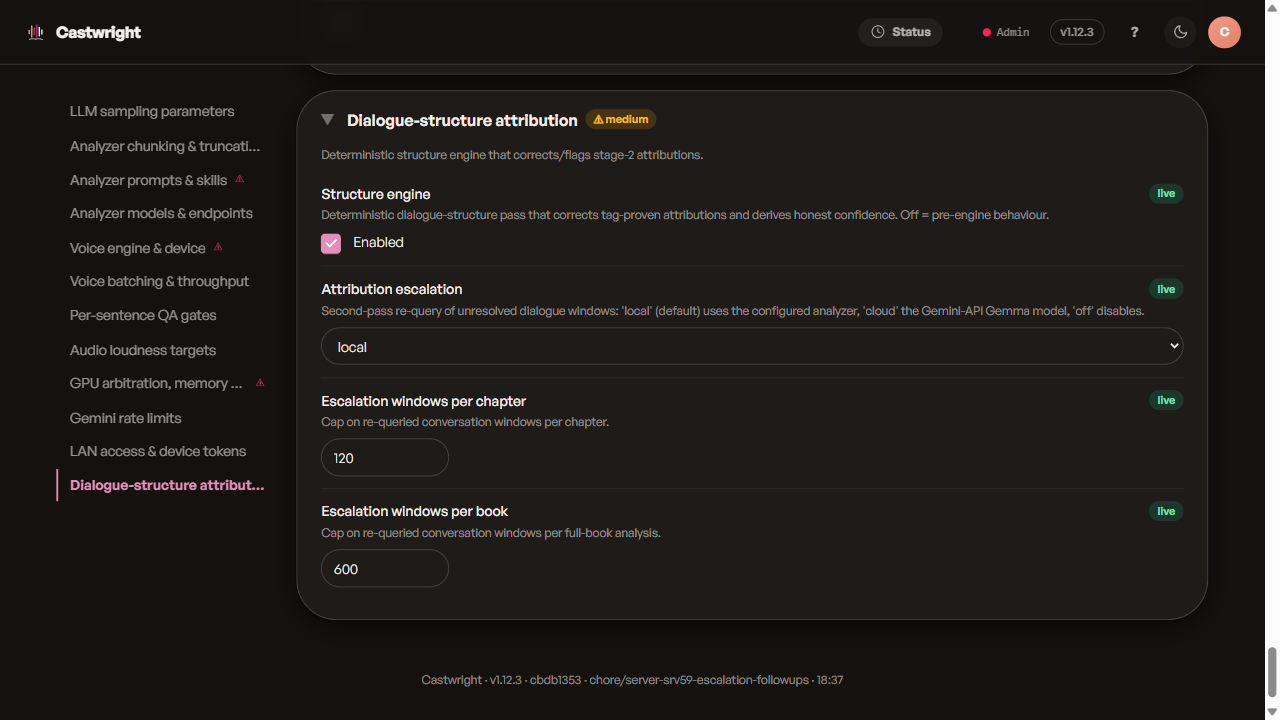
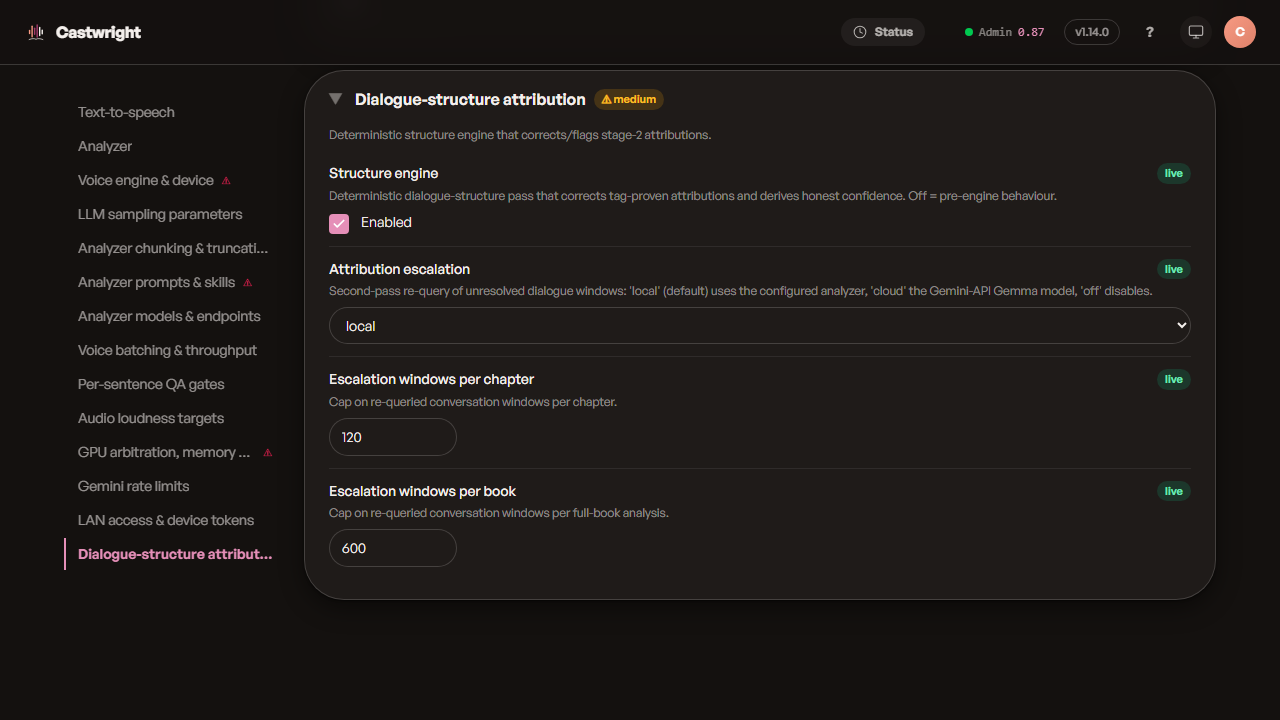
chore(frontend,e2e,docs): add dialogue-structure attribution mock group + wiki shot
Residual from #1785: Advanced Settings §12 "Dialogue-structure attribution"
could not be re-captured for the wiki because its config group was absent from
the mock config the capture harness runs against.

- Mirror the registry's `analyzer-structure` group (4 knobs) into
  MOCK_CONFIG_DESCRIPTORS + MOCK_CONFIG_GROUPS in src/lib/api.ts, so #/advanced
  renders the group in mock mode.
- Parity-test the mock group against the server registry (api.config.test.ts),
  same drift guard already covering gpu-lifecycle after the #1743 drift.
- Add the `adv-dialogue-attribution` capture scene; it settles the nav
  smooth-scroll before capture so both themes frame the last section.
- Regenerate the two stale committed PNGs from the fixed scene.

No runtime behaviour change — mock/capture plumbing for an existing real feature.

Closes #1786

Claude-Session: https://claude.ai/code/session_015axYtv5mgfcBF6PhjtH5ia

diff --git a/src/lib/api.ts b/src/lib/api.ts
@@ -8961,6 +8961,55 @@ const MOCK_CONFIG_DESCRIPTORS: import('./types').KnobDescriptor[] = [
     isPrompt: false,
     default: 30,
   },
+  // analyzer-structure — mirror server/src/config/registry.ts (parity-tested
+  // in api.config.test.ts so this can't drift from the real §12 group).
+  {
+    key: 'analyzer.structure.enabled',
+    group: 'analyzer-structure',
+    label: 'Structure engine',
+    help: 'Deterministic dialogue-structure pass that corrects tag-proven attributions and derives honest confidence. Off = pre-engine behaviour.',
+    type: 'boolean',
+    apply: 'live',
+    risk: 'medium',
+    isPrompt: false,
+    default: true,
+  },
+  {
+    key: 'analyzer.structure.escalation',
+    group: 'analyzer-structure',
+    label: 'Attribution escalation',
+    help: "Second-pass re-query of unresolved dialogue windows: 'local' (default) uses the configured analyzer, 'cloud' the Gemini-API Gemma model, 'off' disables.",
+    type: 'enum',
+    options: ['off', 'local', 'cloud'],
+    apply: 'live',
+    risk: 'medium',
+    isPrompt: false,
+    default: 'local',
+  },
+  {
+    key: 'analyzer.structure.maxWindowsPerChapter',
+    group: 'analyzer-structure',
+    label: 'Escalation windows per chapter',
+    help: 'Cap on re-queried conversation windows per chapter.',
+    type: 'integer',
+    min: 0,
+    apply: 'live',
+    risk: 'low',
+    isPrompt: false,
+    default: 120,
+  },
+  {
+    key: 'analyzer.structure.maxWindowsPerBook',
+    group: 'analyzer-structure',
+    label: 'Escalation windows per book',
+    help: 'Cap on re-queried conversation windows per full-book analysis.',
+    type: 'integer',
+    min: 0,
+    apply: 'live',
+    risk: 'low',
+    isPrompt: false,
+    default: 600,
+  },
 ];
 
 const MOCK_CONFIG_GROUPS: import('./types').ConfigGroup[] = [
@@ -9053,6 +9102,13 @@ const MOCK_CONFIG_GROUPS: import('./types').ConfigGroup[] = [
     label: 'LAN access & device tokens',
     help: 'Lifetime of browser/device authorizations minted from Admin.',
     risk: 'low',
+    collapsedByDefault: false,
+  },
+  {
+    id: 'analyzer-structure',
+    label: 'Dialogue-structure attribution',
+    help: 'Deterministic structure engine that corrects/flags stage-2 attributions.',
+    risk: 'medium',
     collapsedByDefault: false,
   },
 ];

diff --git a/e2e/marketing/scenes.ts b/e2e/marketing/scenes.ts
@@ -619,6 +619,29 @@ export const SCENES: Scene[] = [
     strict: true,
   },
   {
+    id: 'adv-dialogue-attribution',
+    hash: '#/advanced',
+    viewports: ['desktop'],
+    action: async (page) => {
+      await page
+        .getByRole('navigation', { name: 'Settings sections' })
+        .getByText('Dialogue-structure attribution', { exact: true })
+        .click({ timeout: 5000 });
+      // The nav click smooth-scrolls to this LAST section (settings-
+      // accordion.tsx:189, behavior:'smooth'). Both themes are shot from one
+      // scroll position, so the animation must fully settle before the first
+      // (light) capture — otherwise light freezes mid-scroll while dark, shot
+      // ~800ms later, lands correctly. Wait it out here.
+      await page.getByText('Structure engine', { exact: true }).waitFor({ timeout: 5000 });
+      await page.waitForTimeout(1200);
+    },
+    // "Structure engine" is the group's first knob and unique on the page
+    // (not a substring of the group title "Dialogue-structure attribution").
+    waitForAfterAction: 'text=Structure engine',
+    scrollTo: 'text=Structure engine',
+    strict: true,
+  },
+  {
     /* Saltgrave (hollow-tide-2) is mid-generation (7/11 done) — the Regenerate
        action on a finished chapter opens the real per-chapter modal. The
        per-chapter button's accessible name is its aria-label

diff --git a/src/lib/api.config.test.ts b/src/lib/api.config.test.ts
@@ -185,4 +185,27 @@ describe('mock config parity with the server registry', () => {
     const registryGroup = GROUPS.find((g) => g.id === 'gpu-lifecycle');
     expect(mockGroup?.help).toBe(registryGroup?.help);
   });
+
+  /* #1786: the §12 dialogue-structure attribution group was absent from the
+     mock entirely, so it could not be screenshotted for the wiki. Same
+     mirror-the-registry-exactly guard as gpu-lifecycle above. */
+  it('analyzer-structure descriptor keys mirror the registry group', async () => {
+    const { descriptors } = await mockGetConfig();
+    const mockKeys = descriptors
+      .filter((d) => d.group === 'analyzer-structure')
+      .map((d) => d.key)
+      .sort();
+    const registryKeys = knobsInGroup('analyzer-structure')
+      .map((k) => k.key)
+      .sort();
+    expect(mockKeys).toEqual(registryKeys);
+    expect(mockKeys.length).toBeGreaterThan(0);
+  });
+
+  it('analyzer-structure group blurb matches the registry', async () => {
+    const { groups } = await mockGetConfig();
+    const mockGroup = groups.find((g) => g.id === 'analyzer-structure');
+    const registryGroup = GROUPS.find((g) => g.id === 'analyzer-structure');
+    expect(mockGroup?.help).toBe(registryGroup?.help);
+  });
 });
